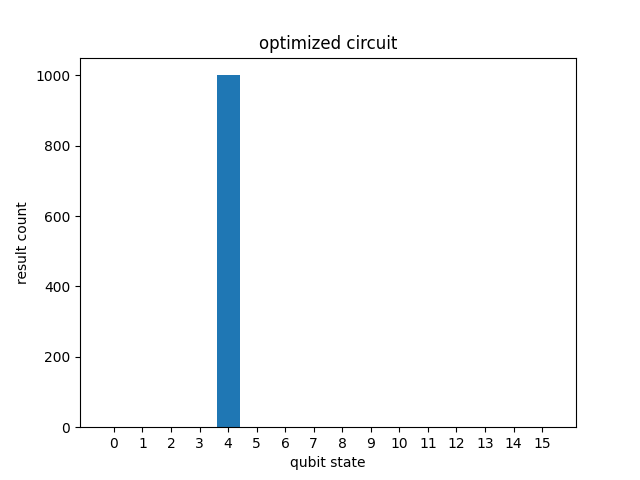
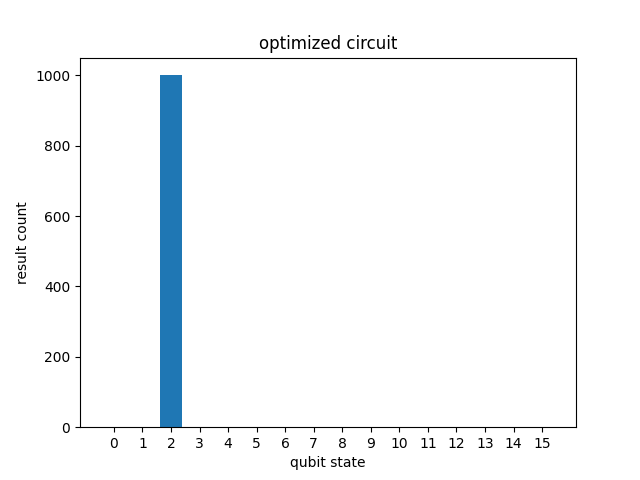
fix bug

Changed region(s): [[0.3125, 0.1562, 0.375, 0.9062], [0.25, 0.1562, 0.2812, 0.9062]]

diff --git a/testing.py b/testing.py
@@ -40,10 +40,7 @@ def simple_test(template):
 
     opt = transformers_dict[template](origin)
     print("Optimized circuit:\n", opt)
-    return origin, opt
 
-
-def compare_circuit_depth(origin, opt):
     # Compare the circuit depths
     depth1 = len(list(origin.all_operations()))
     depth2 = len(list(opt.all_operations()))
@@ -60,8 +57,11 @@ def compare_circuit_depth(origin, opt):
 
 
 def simulator_test(origin, opt):
-    origin.measure_all()
-    opt.measure_all()
+    for qubit in origin.all_qubits():
+        origin.append(measure(qubit, key=str(qubit)))
+    for qubit in opt.all_qubits():
+        opt.append(measure(qubit, key=str(qubit)))
+
     simulator = Simulator()
     origin_result = simulator.run(origin, repetitions=1000)
     opt_result = simulator.run(opt, repetitions=1000)
@@ -75,3 +75,4 @@ def simulator_test(origin, opt):
     plt.savefig("opt")
 
     return
+

diff --git a/main.py b/main.py
@@ -1,5 +1,8 @@
+from transformer import *
+from randomCircuit import *
 from testing import *
-import cirq
+from cirq import *
+
 
 if __name__ == '__main__':
     simple_test('a')
@@ -7,11 +10,12 @@ if __name__ == '__main__':
     simple_test('c')
     simple_test('d')
     simple_test('e')
-    #simple_test('f')
+    simple_test('f')
 
-    qubits = [cirq.LineQubit(i) for i in range(4)]
+    qubits = [LineQubit(i) for i in range(4)]
     origin = generate_random_circuit(qubits, 6, 'd')
     print(origin)
     opt = two_cx_to_cxx(origin)
     print(opt)
     simulator_test(origin, opt)
+

diff --git a/randomCircuit.py b/randomCircuit.py
@@ -47,6 +47,7 @@ def generate_random_circuit(qubits, depth, template):
             operations.extend(template_new)
             template_added = True
             i = len(operations)
+    circuit.append(operations)
     return circuit
 
 
